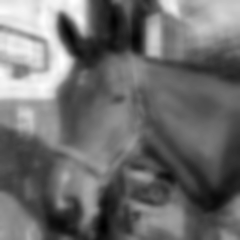
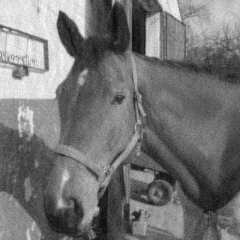
Finish a3 code part

diff --git a/a3/ex03_04_image_deblurring.py b/a3/ex03_04_image_deblurring.py
@@ -62,7 +62,7 @@ mpimg.imsave(filename + "blurry.png", b.reshape(ny,nx), cmap=plt.cm.gray);
 
 K = make_derivatives2D(ny, nx); # forward-difference operator
 
-mu = 0.5; #todo: try the vary the regularization parameter.
+mu = 0.001; #changeme: try the vary the regularization parameter.
 
 
 # specify model data
@@ -121,7 +121,8 @@ if run_gd_els:
     rs.append(output['seq_res']);
     ts.append(output['seq_time']);
     psnrs.append(output['seq_psnr']);
-    cols.append((0.5,0,0.5,1));
+    cols.append((0.5,0,0.5,1))
+    cols.append((1,0,0,1))
     legs.append('GD-ELS');
     nams.append('GD-ELS');
 
@@ -133,41 +134,49 @@ if run_gd_els:
 
 
 
-fig = plt.figure();
-j = 0;
-for i in range(2):
-    plt.plot(rs[i], '-', color=cols[i], linewidth=2);
+# fig = plt.figure();
+# j = 0;
+# for i in range(2):
+#     plt.plot(rs[i], '-', color=cols[i], linewidth=2);
+
+plt.plot(range(maxiter+1), rs[0])
 plt.legend(legs);
 plt.xlabel('Iterations');
 plt.ylabel('Function value');
 plt.title('Function vs Iterations');
 
-plt.show(block=False);
+# plt.show(block=False);
+plt.savefig('function_val_plot.png')
 
 
 
 
 
-fig3, ax = plt.subplots(nrows=1, ncols=4, figsize=(12, 8))
+fig3, ax = plt.subplots(nrows=2, ncols=2)
 
-for a in ax:
-    a.axis('off')
+# for a in ax:
+#     a.axis('off')
 
 img_main = img.reshape(ny,nx) 
-ax[0].imshow(img_main, cmap=plt.cm.gray)
-ax[0].set_title('Original Image')
+ax[0, 0].imshow(img_main, cmap=plt.cm.gray)
+ax[0, 0].set_title('Original Image')
+ax[0, 0].axis('off')
 
 b_main = b.reshape(ny,nx)
-ax[1].imshow(b_main, cmap=plt.cm.gray)
-ax[1].set_title('Blurred Image')
+ax[0, 1].imshow(b_main, cmap=plt.cm.gray)
+ax[0, 1].set_title('Blurred Image')
+ax[0, 1].axis('off')
 
 r_1_main = xs[0].reshape(ny,nx) 
-ax[2].imshow(r_1_main, cmap=plt.cm.gray)
-ax[2].set_title('Deblurred Image - ELS')
+ax[1, 0].imshow(r_1_main, cmap=plt.cm.gray)
+ax[1, 0].set_title('Deblurred Image - ELS')
+ax[1, 0].axis('off')
 
-r_2_main = xs[1].reshape(ny,nx) 
-ax[3].imshow(r_2_main, cmap=plt.cm.gray)
-ax[3].set_title('Deblurred Image - CG')
+ax[1, 1].axis('off')
 
+# r_2_main = xs[1].reshape(ny,nx) 
+# ax[3].imshow(r_2_main, cmap=plt.cm.gray)
+# ax[3].set_title('Deblurred Image - CG')
+plt.tight_layout()
 # plt.show();
-plt.savefig('plot.png')
+plt.savefig('img_plot.png')
